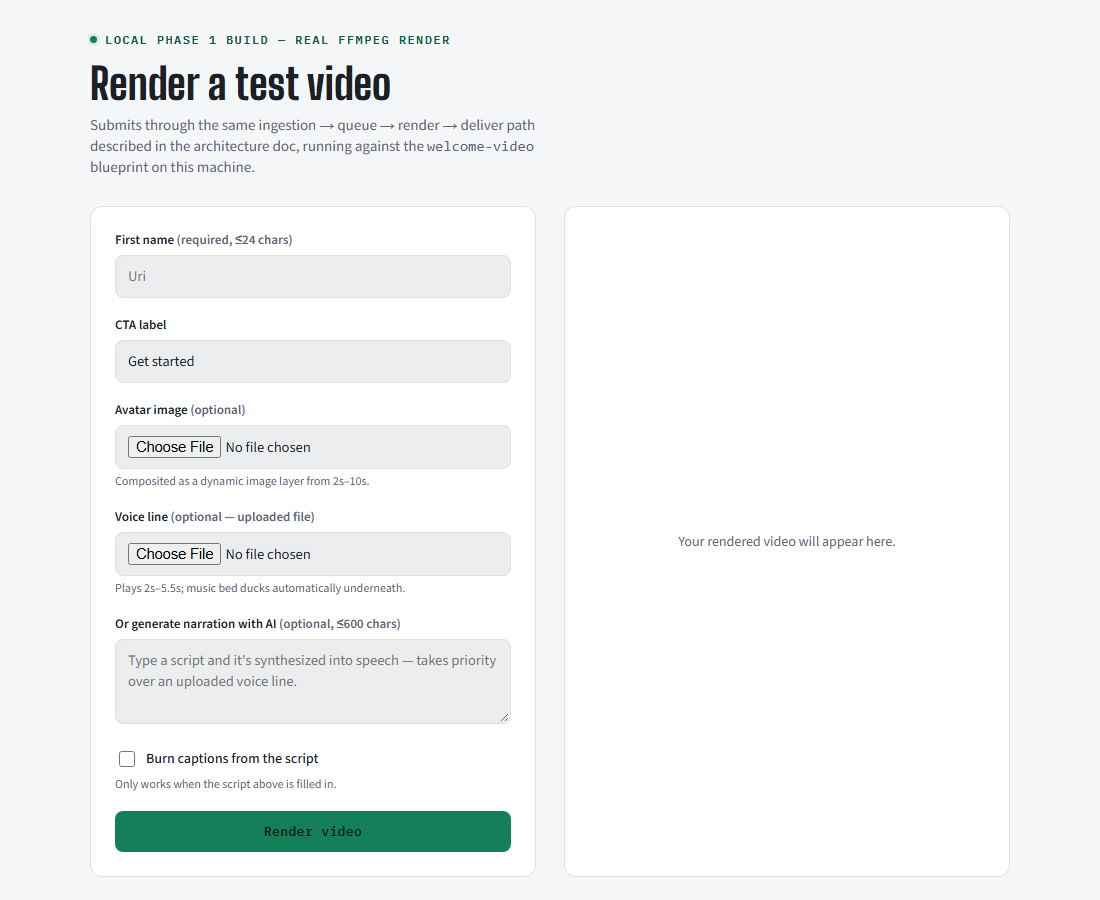
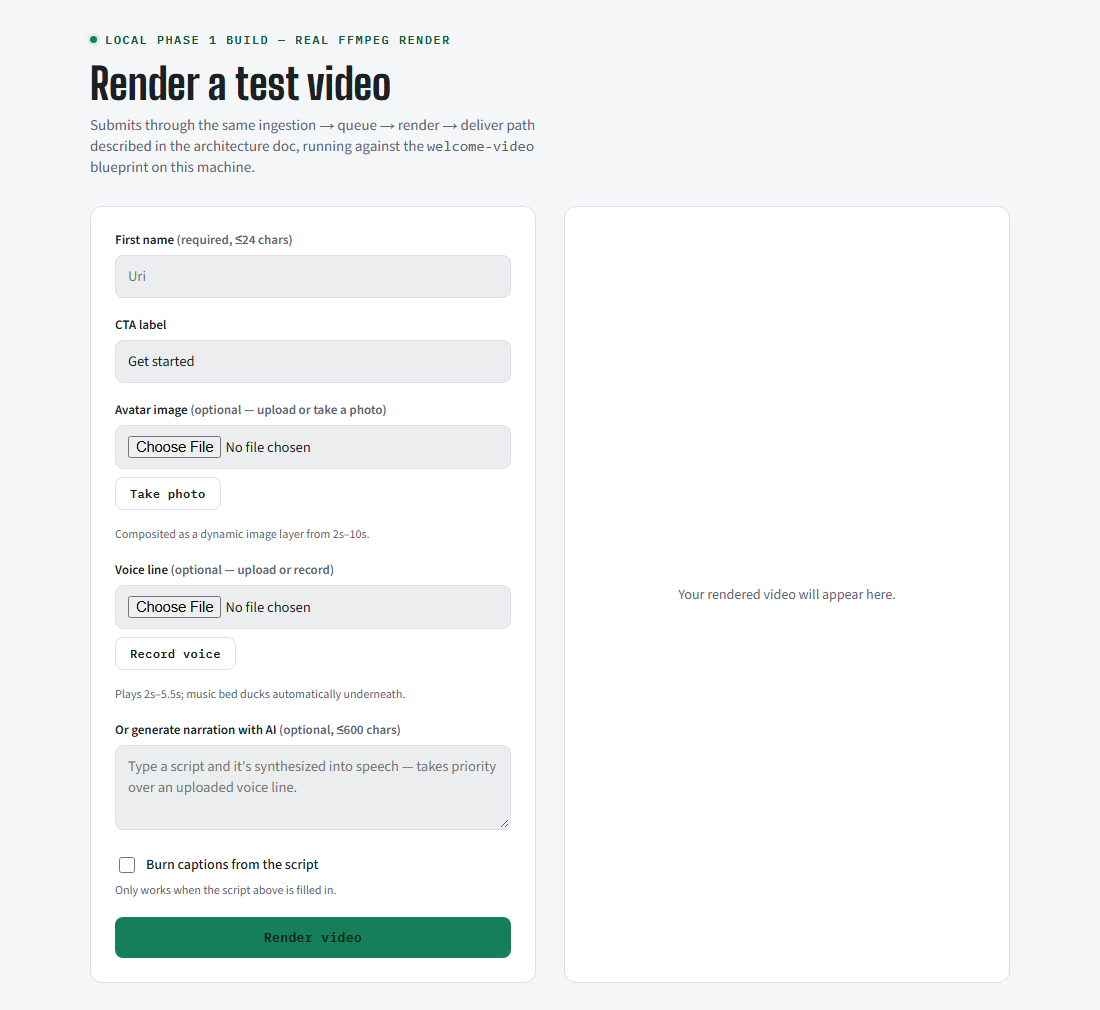
Add camera photo and voice recording next to file uploads
File inputs for the avatar image and voice/narration clips now offer
"Take photo" and "Record voice" using getUserMedia and MediaRecorder. The
capture is placed in the file input, so the server API is unchanged.

diff --git a/public/capture.js b/public/capture.js
@@ -1,0 +1,235 @@
+// Camera and microphone capture for file inputs marked data-capture="photo"
+// or data-capture="audio". A captured photo/recording is placed into the
+// file input itself, so the form submits it exactly like an uploaded file and
+// the server needs no changes.
+(function () {
+  const MAX_RECORD_SECONDS = 60;
+  const hasMedia = !!(navigator.mediaDevices && navigator.mediaDevices.getUserMedia);
+
+  function el(tag, props = {}, children = []) {
+    const node = Object.assign(document.createElement(tag), props);
+    for (const c of children) node.append(c);
+    return node;
+  }
+
+  function setInputFile(input, file) {
+    const dt = new DataTransfer();
+    dt.items.add(file);
+    input.files = dt.files;
+    input.dispatchEvent(new Event("change", { bubbles: true }));
+  }
+
+  function describeError(err) {
+    if (!window.isSecureContext) return "Camera and microphone need https:// or localhost.";
+    if (err && (err.name === "NotAllowedError" || err.name === "SecurityError")) {
+      return "Permission was denied. Allow access in the browser's address bar and try again.";
+    }
+    if (err && (err.name === "NotFoundError" || err.name === "OverconstrainedError")) {
+      return "No camera or microphone was found on this device.";
+    }
+    return "Could not start: " + ((err && err.message) || "unknown error");
+  }
+
+  function stopStream(stream) {
+    if (stream) stream.getTracks().forEach((t) => t.stop());
+  }
+
+  function attachPreview(input, preview) {
+    let url = null;
+    function render() {
+      if (url) URL.revokeObjectURL(url);
+      url = null;
+      preview.replaceChildren();
+      const file = input.files && input.files[0];
+      if (!file) return;
+      url = URL.createObjectURL(file);
+      const media = file.type.startsWith("image/")
+        ? el("img", { src: url, alt: "Selected photo preview" })
+        : el("audio", { src: url, controls: true });
+      const remove = el("button", { type: "button", className: "btn-secondary", textContent: "Remove" });
+      remove.addEventListener("click", () => {
+        input.value = "";
+        render();
+      });
+      preview.append(media, el("span", { className: "muted", textContent: file.name }), remove);
+    }
+    input.addEventListener("change", render);
+  }
+
+  function initPhoto(input, row, panelHost, msg) {
+    const openBtn = el("button", { type: "button", className: "btn-secondary", textContent: "Take photo" });
+    row.append(openBtn);
+    let stream = null;
+    let panel = null;
+
+    function close() {
+      stopStream(stream);
+      stream = null;
+      if (panel) panel.remove();
+      panel = null;
+      openBtn.disabled = false;
+    }
+
+    openBtn.addEventListener("click", async () => {
+      msg.textContent = "";
+      openBtn.disabled = true;
+      try {
+        stream = await navigator.mediaDevices.getUserMedia({
+          video: { facingMode: "user", width: { ideal: 1280 } },
+          audio: false,
+        });
+      } catch (err) {
+        msg.textContent = describeError(err);
+        openBtn.disabled = false;
+        return;
+      }
+      const video = el("video", { autoplay: true, muted: true, playsInline: true });
+      video.srcObject = stream;
+      const capture = el("button", { type: "button", textContent: "Capture", className: "btn-secondary" });
+      const cancel = el("button", { type: "button", textContent: "Cancel", className: "btn-secondary" });
+      panel = el("div", { className: "capture-panel" }, [video, el("div", { className: "capture-row" }, [capture, cancel])]);
+      panelHost.append(panel);
+
+      cancel.addEventListener("click", close);
+      capture.addEventListener("click", () => {
+        if (!video.videoWidth) return;
+        const canvas = el("canvas");
+        canvas.width = video.videoWidth;
+        canvas.height = video.videoHeight;
+        canvas.getContext("2d").drawImage(video, 0, 0);
+        canvas.toBlob(
+          (blob) => {
+            if (!blob) {
+              msg.textContent = "Could not capture the photo. Try again.";
+              return;
+            }
+            setInputFile(input, new File([blob], "camera-photo.jpg", { type: "image/jpeg" }));
+            close();
+          },
+          "image/jpeg",
+          0.92
+        );
+      });
+    });
+  }
+
+  function pickRecorderMime() {
+    const options = ["audio/webm;codecs=opus", "audio/webm", "audio/mp4", "audio/ogg;codecs=opus"];
+    return options.find((m) => window.MediaRecorder && MediaRecorder.isTypeSupported(m)) || "";
+  }
+
+  function extensionFor(mime) {
+    if (mime.includes("webm")) return "webm";
+    if (mime.includes("mp4")) return "m4a";
+    if (mime.includes("ogg")) return "ogg";
+    return "webm";
+  }
+
+  function initAudio(input, row, msg, form) {
+    const recBtn = el("button", { type: "button", className: "btn-secondary", textContent: "Record voice" });
+    const timer = el("span", { className: "capture-timer" });
+    row.append(recBtn, timer);
+
+    let recorder = null;
+    let stream = null;
+    let chunks = [];
+    let tick = null;
+    let startedAt = 0;
+
+    function idle() {
+      clearInterval(tick);
+      stopStream(stream);
+      stream = null;
+      recorder = null;
+      recBtn.classList.remove("recording");
+      recBtn.textContent = "Record voice";
+      timer.textContent = "";
+      delete form.dataset.recording;
+    }
+
+    function stop() {
+      if (recorder && recorder.state !== "inactive") recorder.stop();
+    }
+
+    recBtn.addEventListener("click", async () => {
+      if (recorder) return stop();
+      msg.textContent = "";
+      if (!window.MediaRecorder) {
+        msg.textContent = "Recording is not supported in this browser. Upload an audio file instead.";
+        return;
+      }
+      try {
+        stream = await navigator.mediaDevices.getUserMedia({ audio: true });
+      } catch (err) {
+        msg.textContent = describeError(err);
+        return;
+      }
+      const mime = pickRecorderMime();
+      recorder = new MediaRecorder(stream, mime ? { mimeType: mime } : undefined);
+      chunks = [];
+      recorder.addEventListener("dataavailable", (e) => e.data.size && chunks.push(e.data));
+      recorder.addEventListener("stop", () => {
+        const type = (recorder && recorder.mimeType) || mime || "audio/webm";
+        const baseType = type.split(";")[0];
+        const blob = new Blob(chunks, { type: baseType });
+        idle();
+        if (blob.size === 0) {
+          msg.textContent = "Nothing was recorded. Try again.";
+          return;
+        }
+        setInputFile(input, new File([blob], `voice-recording.${extensionFor(baseType)}`, { type: baseType }));
+      });
+
+      recorder.start();
+      startedAt = Date.now();
+      form.dataset.recording = "1";
+      recBtn.classList.add("recording");
+      recBtn.replaceChildren(el("span", { className: "rec-dot" }), document.createTextNode("Stop recording"));
+      tick = setInterval(() => {
+        const s = Math.floor((Date.now() - startedAt) / 1000);
+        timer.textContent = `${Math.floor(s / 60)}:${String(s % 60).padStart(2, "0")} / 1:00`;
+        if (s >= MAX_RECORD_SECONDS) stop();
+      }, 250);
+    });
+  }
+
+  document.querySelectorAll("input[type=file][data-capture]").forEach((input) => {
+    const kind = input.dataset.capture;
+    const form = input.closest("form");
+    const row = el("div", { className: "capture-row" });
+    const panelHost = el("div");
+    const preview = el("div", { className: "capture-preview" });
+    const msg = el("div", { className: "capture-msg", role: "status" });
+    input.after(row, panelHost, preview, msg);
+    attachPreview(input, preview);
+
+    if (!hasMedia) {
+      row.append(
+        el("span", {
+          className: "muted",
+          textContent: "Camera and microphone are unavailable here (they need https:// or localhost).",
+        })
+      );
+      return;
+    }
+    if (kind === "photo") initPhoto(input, row, panelHost, msg);
+    if (kind === "audio") initAudio(input, row, msg, form);
+  });
+
+  // Don't submit while a recording is still running: the file isn't in the
+  // input until the recorder stops.
+  document.querySelectorAll("form").forEach((form) => {
+    form.addEventListener(
+      "submit",
+      (e) => {
+        if (form.dataset.recording) {
+          e.preventDefault();
+          e.stopImmediatePropagation();
+          const msg = form.querySelector(".capture-msg:not(:empty)") || form.querySelector(".capture-msg");
+          if (msg) msg.textContent = "Stop the recording first, then render.";
+        }
+      },
+      true
+    );
+  });
+})();

diff --git a/public/index.html b/public/index.html
@@ -47,6 +47,27 @@
     cursor:pointer;width:100%;
   }
   button:disabled{opacity:.55;cursor:not-allowed;}
+  button:focus-visible{outline:2px solid var(--accent);outline-offset:2px;}
+
+  /* camera / microphone capture controls that sit under a file input */
+  .capture-row{display:flex;flex-wrap:wrap;align-items:center;gap:8px;margin-top:8px;}
+  button.btn-secondary{
+    width:auto;padding:8px 14px;font-size:12px;background:transparent;color:var(--ink);
+    border:1px solid var(--line);
+  }
+  button.btn-secondary:hover:not(:disabled){border-color:var(--accent);color:var(--accent-ink);}
+  button.btn-secondary.recording{border-color:var(--warn);color:var(--warn);background:var(--warn-soft);}
+  .rec-dot{display:inline-block;width:8px;height:8px;border-radius:50%;background:var(--warn);margin-right:6px;animation:pulse 1s infinite;}
+  @keyframes pulse{50%{opacity:.25;}}
+  @media (prefers-reduced-motion: reduce){.rec-dot{animation:none;}}
+  .capture-timer{font-family:"IBM Plex Mono",monospace;font-size:12px;color:var(--muted);}
+  .capture-panel{margin-top:10px;border:1px solid var(--line);border-radius:10px;padding:10px;background:var(--surface-2);}
+  .capture-panel video{width:100%;max-height:280px;border-radius:8px;background:#000;display:block;transform:scaleX(-1);}
+  .capture-panel .capture-row{margin-top:10px;}
+  .capture-preview{margin-top:10px;display:flex;align-items:center;gap:12px;flex-wrap:wrap;}
+  .capture-preview img{width:72px;height:72px;object-fit:cover;border-radius:8px;border:1px solid var(--line);}
+  .capture-preview audio{height:36px;max-width:100%;}
+  .capture-msg{font-size:12px;color:var(--warn);margin-top:6px;}
   .status-frame{min-height:340px;display:flex;flex-direction:column;align-items:center;justify-content:center;gap:14px;text-align:center;}
   .status-frame video{width:100%;border-radius:8px;background:#000;}
   .pill{font-family:"IBM Plex Mono",monospace;font-size:12px;padding:4px 10px;border-radius:20px;background:var(--accent-soft);color:var(--accent-ink);font-weight:600;}
@@ -74,13 +95,13 @@
           <input type="text" id="cta_label" name="cta_label" maxlength="20" placeholder="Get started" value="Get started" />
         </div>
         <div class="field">
-          <label for="avatar_image">Avatar image <span class="muted">(optional)</span></label>
-          <input type="file" id="avatar_image" name="avatar_image" accept="image/*" />
+          <label for="avatar_image">Avatar image <span class="muted">(optional — upload or take a photo)</span></label>
+          <input type="file" id="avatar_image" name="avatar_image" accept="image/*" data-capture="photo" />
           <div class="hint">Composited as a dynamic image layer from 2s–10s.</div>
         </div>
         <div class="field">
-          <label for="voice_audio">Voice line <span class="muted">(optional — uploaded file)</span></label>
-          <input type="file" id="voice_audio" name="voice_audio" accept="audio/*" />
+          <label for="voice_audio">Voice line <span class="muted">(optional — upload or record)</span></label>
+          <input type="file" id="voice_audio" name="voice_audio" accept="audio/*" data-capture="audio" />
           <div class="hint">Plays 2s–5.5s; music bed ducks automatically underneath.</div>
         </div>
         <div class="field">
@@ -122,8 +143,8 @@
           <div class="hint">First 6 pages are rendered, ~2.2s each.</div>
         </div>
         <div class="field">
-          <label for="c_voice_audio">Narration <span class="muted">(optional — uploaded file)</span></label>
-          <input type="file" id="c_voice_audio" name="voice_audio" accept="audio/*" />
+          <label for="c_voice_audio">Narration <span class="muted">(optional — upload or record)</span></label>
+          <input type="file" id="c_voice_audio" name="voice_audio" accept="audio/*" data-capture="audio" />
           <div class="hint">Plays under the whole flythrough; music ducks automatically.</div>
         </div>
         <div class="field">
@@ -185,6 +206,7 @@
   </div>
 </div>
 
+<script src="capture.js"></script>
 <script src="app.js"></script>
 </body>
 </html>

diff --git a/README.md b/README.md
@@ -60,7 +60,7 @@ The web UI has one form per template. Each form posts to the API and shows the r
 
 ![PDF presentation form](docs/ui-presentation.png)
 
-**Welcome video form**
+**Welcome video form** (upload, **Take photo** and **Record voice** for the avatar and voice line)
 
 ![Welcome video form](docs/ui-welcome.png)
 
@@ -86,6 +86,8 @@ npm start
 ```
 
 Open http://127.0.0.1:4173. The first launch pre-renders a cached base plate and music bed (a few seconds); later renders reuse them. Startup prints a warning for any missing dependency.
+
+Wherever the UI asks for an avatar image or a voice clip you can **upload a file, take a photo with your camera, or record your voice with your microphone**. The capture is placed in the form like any uploaded file, so the API is unchanged. Camera and microphone access needs `localhost`/`127.0.0.1` or HTTPS, so it will not work if you expose the app over plain HTTP on a LAN address. Recordings stop automatically at 60 seconds.
 
 ```
 npm test
